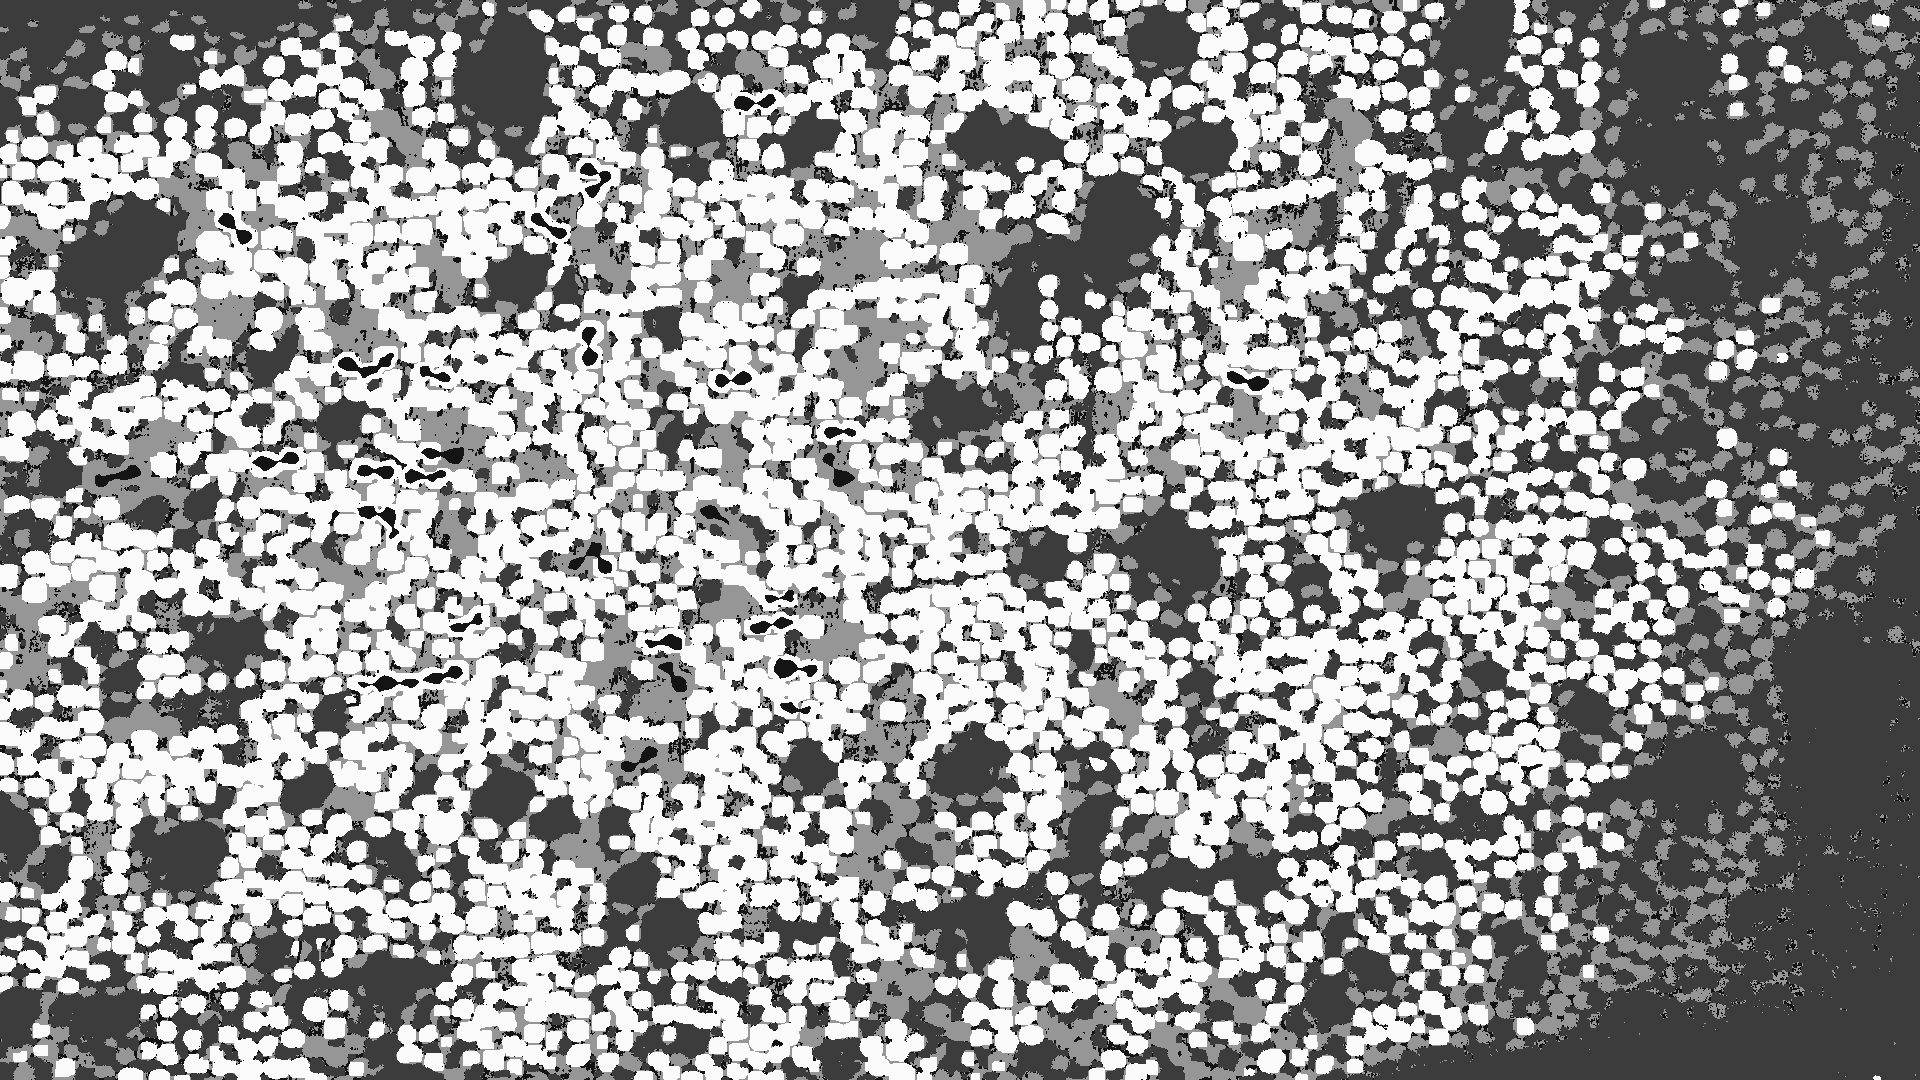
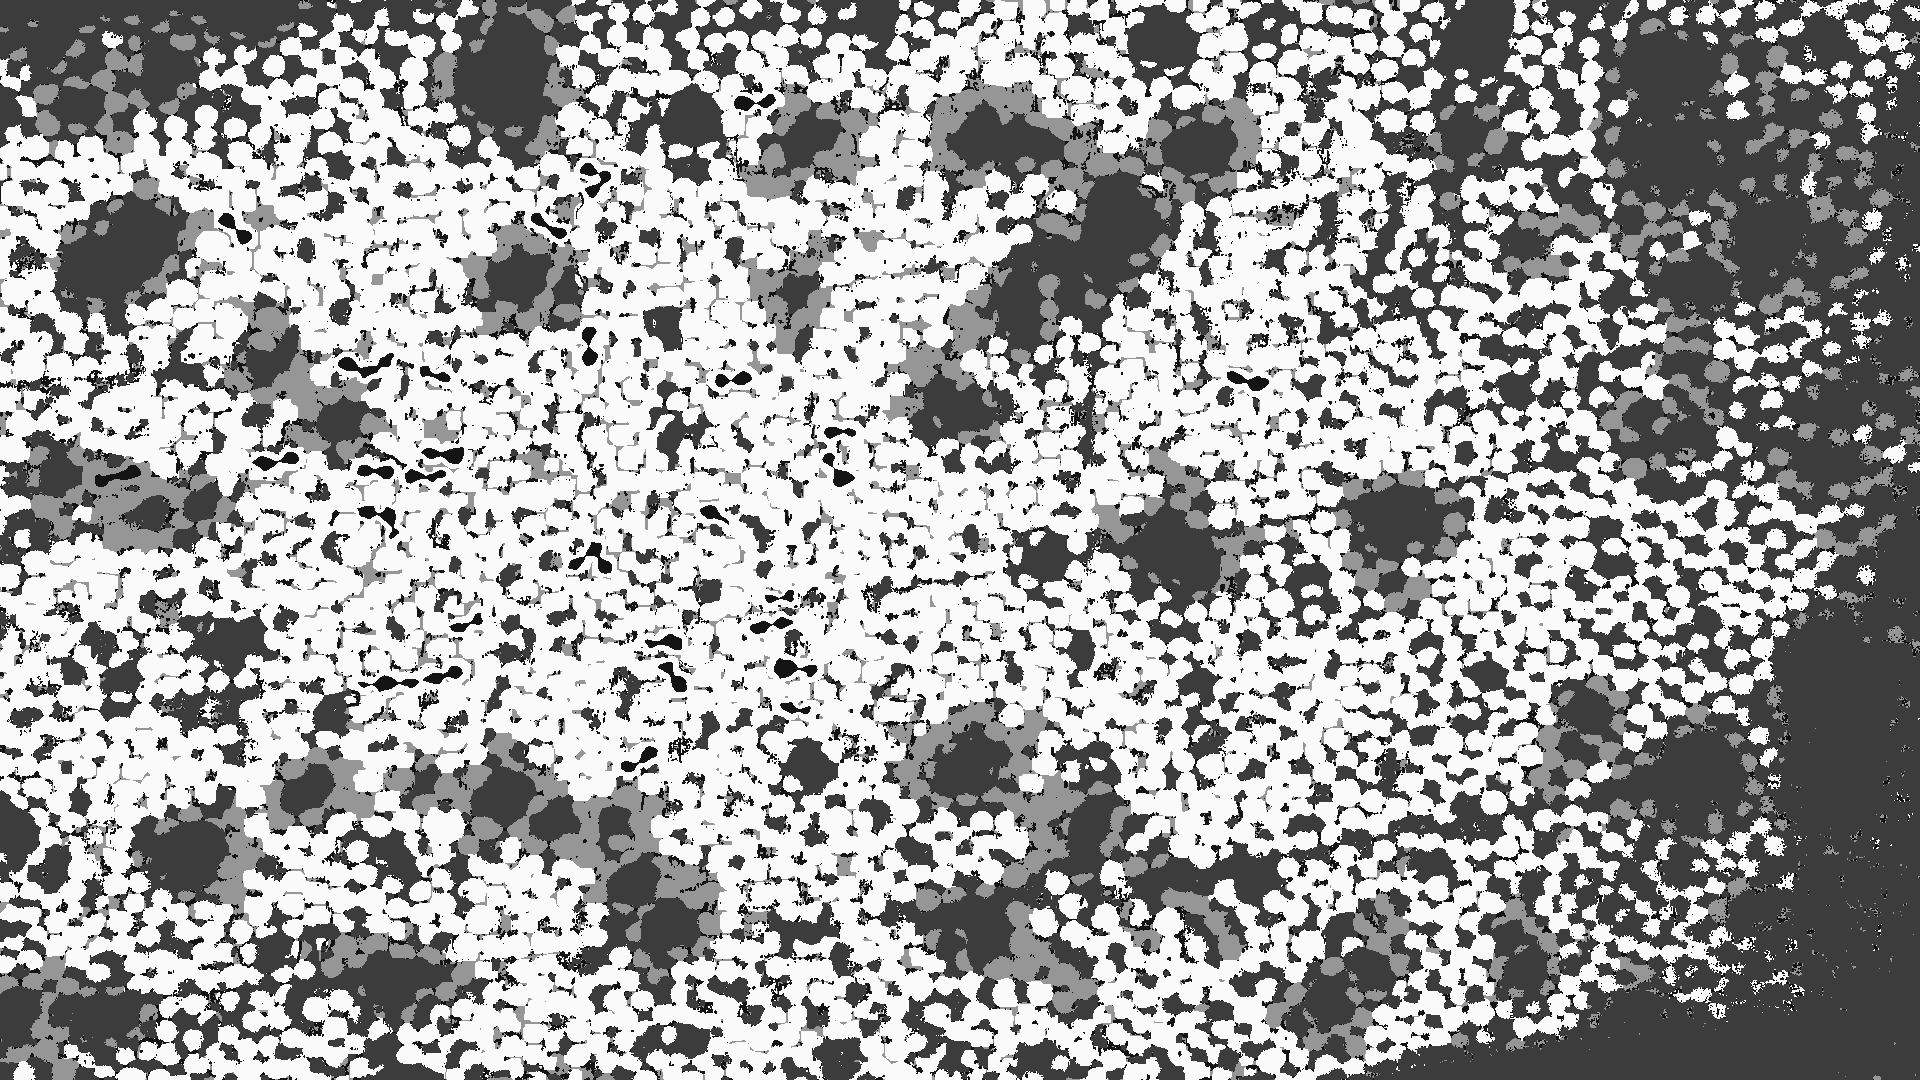
pushing preprodata and fixes

diff --git a/controller.py b/controller.py
@@ -21,6 +21,8 @@ def run_analysis(fibers=False, flashes=False, pores=False,
                     'cont_mult': 2.5,
                     'ws_ths_factor': 0.025,
                     'ws_gl_vecinity': 15,
+                    'otsu_classes': 5,
+                    'otsu_range': (0, 4),
                 }):
 
     all_stats = []

diff --git a/README.md b/README.md
@@ -29,3 +29,10 @@ python .\controller.py -f -p
 this will run both fibers and pores
 
 running without flags will do getMeResults and output the colored images to a folder
+
+
+# Dependencies
+
+``` 
+pip install streamlit opencv-python numpy scikit-image
+``` 
